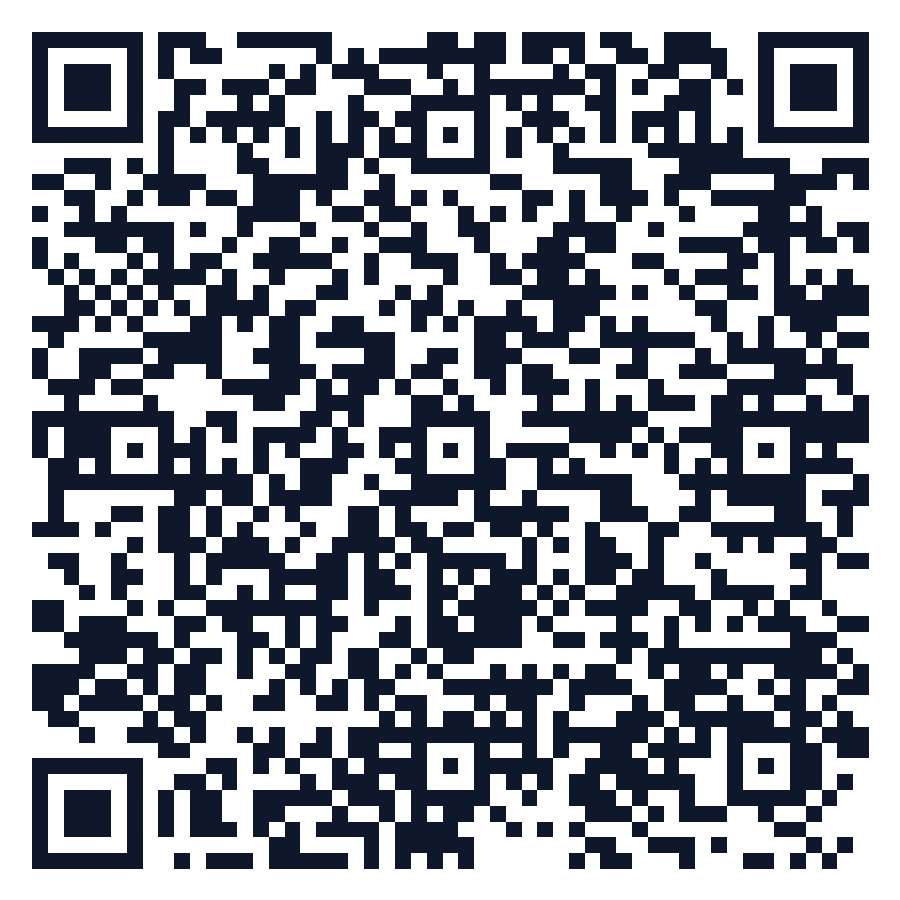
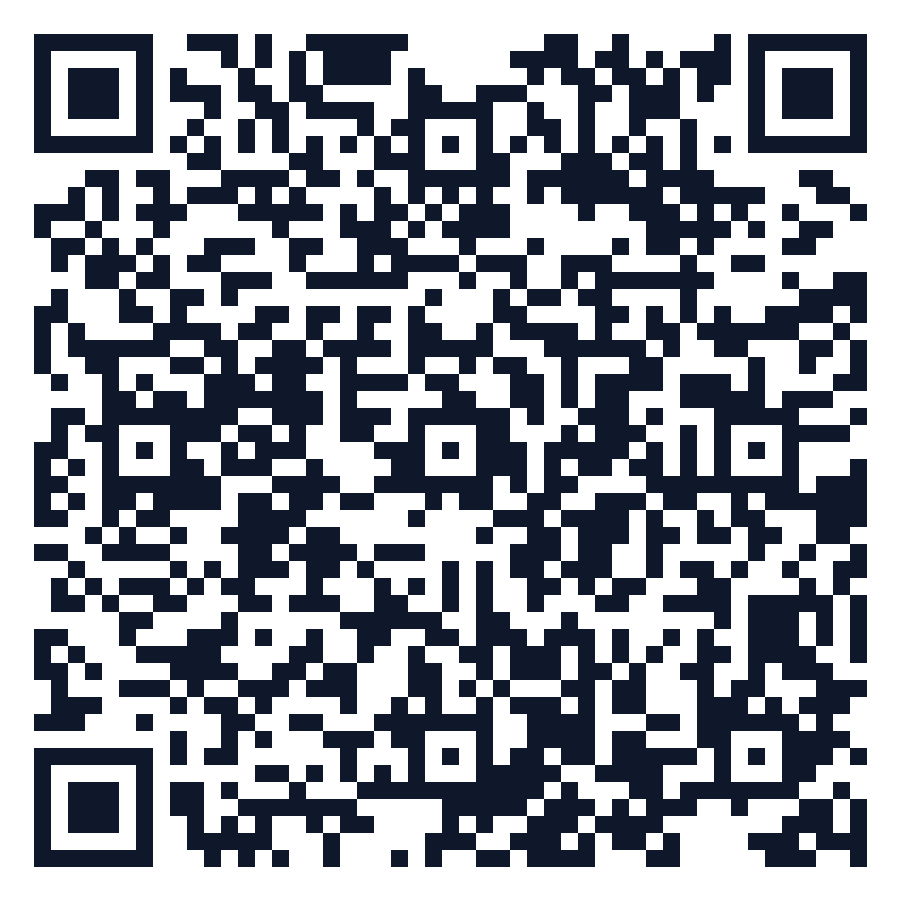
feat: show the running build on the login screen, before any account exists
Settings already showed which bundle is running, but Settings sits behind a
login — so the identifier was unreachable in exactly the situation that needs
it: registration misbehaving, and no way to tell whether the app is even
running the code you think it is. Diagnosing that cost several rounds of
guessing at device state from the outside.

The same line now sits at the bottom of the login screen, which is the first
thing anyone sees.

Also regenerates apk-qr.png per build (scripts/make-qr.js), pointing straight
at the EAS artifact instead of a fixed GitHub release URL. The permanent-QR
design was better on paper and failed three times in practice through a chain
of quiet failures: token expiry, assets that do not overwrite on re-upload,
and a download cache keyed on a constant filename. Direct artifact links have
none of those steps. It now also refuses to write a QR for an unreachable URL
and warns when the build predates HEAD.

diff --git a/scripts/make-qr.js b/scripts/make-qr.js
@@ -1,53 +1,105 @@
 #!/usr/bin/env node
 /* eslint-disable no-console */
 //
-// Generates apk-qr.png — ONE permanent QR code for installing PillReminder.
+// Generates apk-qr.png — a QR that installs the newest EAS build.
 //
-// The point of this script is that you run it once. The QR encodes a URL that
-// does not change, so the printed code stays valid forever:
+//   npm run qr
 //
-//   * JS / UI / logic change  -> `eas update --branch preview`. The QR is not
-//     involved at all; phones that already have the app pick the change up on
-//     their next two launches. Nobody rescans anything.
+// Run it after every `eas build`. It produces a NEW QR each time, pointing
+// straight at that build's artifact on expo.dev.
 //
-//   * Native change (a new native module, a permission, an app.json plugin, or
-//     a version bump) -> `eas build`. A new APK exists, but the URL below still
-//     points at wherever the newest build lives, so the SAME QR installs it.
+// WHY NOT ONE PERMANENT QR
 //
-// The only reason to run this again is if you deliberately change the target
-// URL — for example moving from the EAS build page to your own short link.
+// The previous design pointed at a fixed GitHub URL
+// (releases/latest/download/pillreminder.apk) so the printed code never had to
+// change. It was the better design on paper and it failed repeatedly in
+// practice, because keeping that URL current meant a chain of steps that could
+// each go wrong quietly: a personal access token that expired or lacked scope,
+// a release asset that would not overwrite on re-upload, a download cache keyed
+// on a constant filename that served a previous build's APK under the new
+// build's tag. That last one produced a release with the right tag, the right
+// asset name and the right size, containing the wrong app — indistinguishable
+// from success at every point except the phone.
+//
+// Pointing directly at the EAS artifact removes all of it. No token, no
+// release, no cache, no CDN pointer. The cost is a new QR per build, which is
+// a cost you can see, and that is the entire trade: an occasional visible cost
+// beats a rare invisible one.
+//
+// JS-only changes still need nothing here — `eas update --branch preview` and
+// installed apps pick them up on foreground. This is only for native changes
+// and fresh installs.
 
+const { execFileSync } = require('child_process');
 const fs = require('fs');
 const path = require('path');
 const QRCode = require('qrcode');
 
 const appJson = require('../app.json');
-const { owner, slug } = appJson.expo;
-
-// Where the QR points.
-//
-// GitHub's `releases/latest/download/<asset>` URL is permanent AND resolves to
-// whatever the newest release holds. Crucially it needs no login, which the EAS
-// build page does — scanning that just showed testers an expo.dev sign-in form.
-//
-// The repo is public, so this downloads straight to the phone. Publish each new
-// APK under the SAME asset name (see `npm run release:apk`) and this URL — and
-// therefore the QR — never changes.
-const REPO = process.env.PILLREMINDER_REPO || 'kathisundeep/pillReminder';
-const ASSET = 'pillreminder.apk';
-const DEFAULT_TARGET = `https://github.com/${REPO}/releases/latest/download/${ASSET}`;
-
-const target =
-  process.argv.find((a) => a.startsWith('--url='))?.slice('--url='.length) ||
-  process.env.PILLREMINDER_INSTALL_URL ||
-  DEFAULT_TARGET;
+const { owner, slug, version } = appJson.expo;
 
 const outPath = path.resolve(__dirname, '..', 'apk-qr.png');
 
+function run(cmd, args) {
+  return execFileSync(cmd, args, { encoding: 'utf8', maxBuffer: 32 * 1024 * 1024 });
+}
+
+function headCommit() {
+  try {
+    return run('git', ['rev-parse', 'HEAD']).trim();
+  } catch (e) {
+    return null;
+  }
+}
+
+function newestBuild() {
+  const raw = run('npx', [
+    'eas-cli', 'build:list',
+    '--platform', 'android',
+    '--status', 'finished',
+    '--limit', '1',
+    '--json', '--non-interactive',
+  ]);
+  const [build] = JSON.parse(raw);
+  return build || null;
+}
+
 async function main() {
-  // High error correction: this gets printed, photographed and screenshotted.
-  // A code that still scans with a corner obscured is worth the extra density.
+  // An explicit URL still wins, for a short link or a self-hosted copy.
+  const override =
+    process.argv.find((a) => a.startsWith('--url='))?.slice('--url='.length) ||
+    process.env.PILLREMINDER_INSTALL_URL;
+
+  let target = override;
+  let build = null;
+
+  if (!target) {
+    console.log('Finding the newest finished Android build…');
+    build = newestBuild();
+    if (!build?.artifacts?.buildUrl) {
+      console.error(
+        '\nNo finished Android build found. Run this first:\n' +
+          '  eas build -p android --profile preview\n'
+      );
+      process.exit(1);
+    }
+    target = build.artifacts.buildUrl;
+  }
+
+  // Prove the URL actually serves an APK before printing a code that claims it
+  // does. A QR is trusted on sight — nobody re-checks it after scanning.
+  process.stdout.write('Checking the download URL… ');
+  const res = await fetch(target, { method: 'GET', headers: { Range: 'bytes=0-1' } });
+  if (!res.ok && res.status !== 206) {
+    console.log('');
+    console.error(`\nThat URL returned ${res.status}. Not writing a QR for it.\n  ${target}\n`);
+    process.exit(1);
+  }
+  console.log('reachable.');
+
   await QRCode.toFile(outPath, target, {
+    // High error correction: this gets printed, photographed and screenshotted.
+    // A code that still scans with a corner obscured is worth the extra density.
     errorCorrectionLevel: 'H',
     margin: 2,
     width: 900,
@@ -59,20 +111,46 @@ async function main() {
     small: true,
     errorCorrectionLevel: 'M',
   });
-
   console.log(ascii);
-  console.log(`Encodes : ${target}`);
+
+  if (build) {
+    console.log(`Build   ${build.id}`);
+    console.log(`Version ${build.appVersion} (runtime ${build.runtimeVersion})`);
+
+    // The check that says whether this APK contains the code you are looking
+    // at. A build from an older commit is the failure that wastes the most
+    // time, because the app looks fine — it is just not the app you changed.
+    const head = headCommit();
+    const built = build.gitCommitHash;
+    if (head && built) {
+      if (head === built) {
+        console.log(`Commit  ${built.slice(0, 8)} — matches HEAD`);
+      } else {
+        console.log(
+          `Commit  ${built.slice(0, 8)} — HEAD is ${head.slice(0, 8)}\n\n` +
+            '  ⚠ This build predates your current code. Anything committed\n' +
+            '    since will NOT be in the APK. Run `eas build` again if you\n' +
+            '    need those changes natively — or ship them with\n' +
+            '    `eas update --branch preview`, which does not need a build.\n'
+        );
+      }
+    }
+  }
+
+  console.log(`\nEncodes : ${target}`);
   console.log(`Written : ${path.relative(process.cwd(), outPath)}`);
+  console.log(`Size    : ${(fs.statSync(outPath).size / 1024).toFixed(0)} KB`);
   console.log(
-    '\nThis QR is permanent and needs no login.\n' +
-      '  JS change     -> eas update --branch preview   (phones self-update)\n' +
-      '  native change -> eas build, then npm run release:apk\n' +
-      'Either way the QR stays the same.'
+    `\nApp ${version} · ${owner}/${slug}\n\n` +
+      'This QR points at one specific build, so regenerate it after every\n' +
+      '`eas build`. JS-only changes need no new QR and no new build — run\n' +
+      '`eas update --branch preview` and installed apps pick them up.\n\n' +
+      'Uninstall the old app before scanning: installing over the top can keep\n' +
+      'a cached JS bundle and hide the change you are testing.'
   );
-  console.log(`\nOwner ${owner} / slug ${slug}.`);
 }
 
 main().catch((e) => {
-  console.error('Could not generate the QR:', e.message);
+  console.error('\nCould not generate the QR:', e.message, '\n');
   process.exit(1);
 });

diff --git a/src/screens/LoginScreen.js b/src/screens/LoginScreen.js
@@ -17,7 +17,11 @@ import { resyncAlarmsFromCloud } from '../utils/sync';
 import { getMyProfile } from '../utils/guardianCloud';
 import { ROLES, roleMatchesAccount, useRole } from '../utils/role';
 import { Button, Field, Input, Segmented } from '../components/ui';
+import { runningUpdate } from '../utils/updates';
 import { colors, type } from '../theme';
+
+const appVersion = require('../../app.json').expo.version;
+const buildInfo = runningUpdate();
 
 export default function LoginScreen({ navigation }) {
   const { setRole } = useRole();
@@ -140,6 +144,16 @@ export default function LoginScreen({ navigation }) {
         >
           Don't have an account? Register
         </Text>
+
+        {/* Which build is running, on the FIRST screen — before any login.
+            The same line exists in Settings, but Settings is behind an
+            account, so it is unreachable exactly when it is most needed:
+            when registration itself is not behaving and the question is
+            whether the app is even running the code you think it is. */}
+        <Text style={styles.build}>
+          {`v${appVersion} · ${buildInfo.short}`}
+          {buildInfo.embedded ? ' (as installed)' : ''}
+        </Text>
       </ScrollView>
     </KeyboardAvoidingView>
   );
@@ -174,5 +188,11 @@ const styles = StyleSheet.create({
     marginTop: 20,
     fontSize: 13.5,
     fontWeight: '700',
+  },
+  build: {
+    textAlign: 'center',
+    marginTop: 26,
+    fontSize: 11,
+    color: colors.muted,
   },
 });
